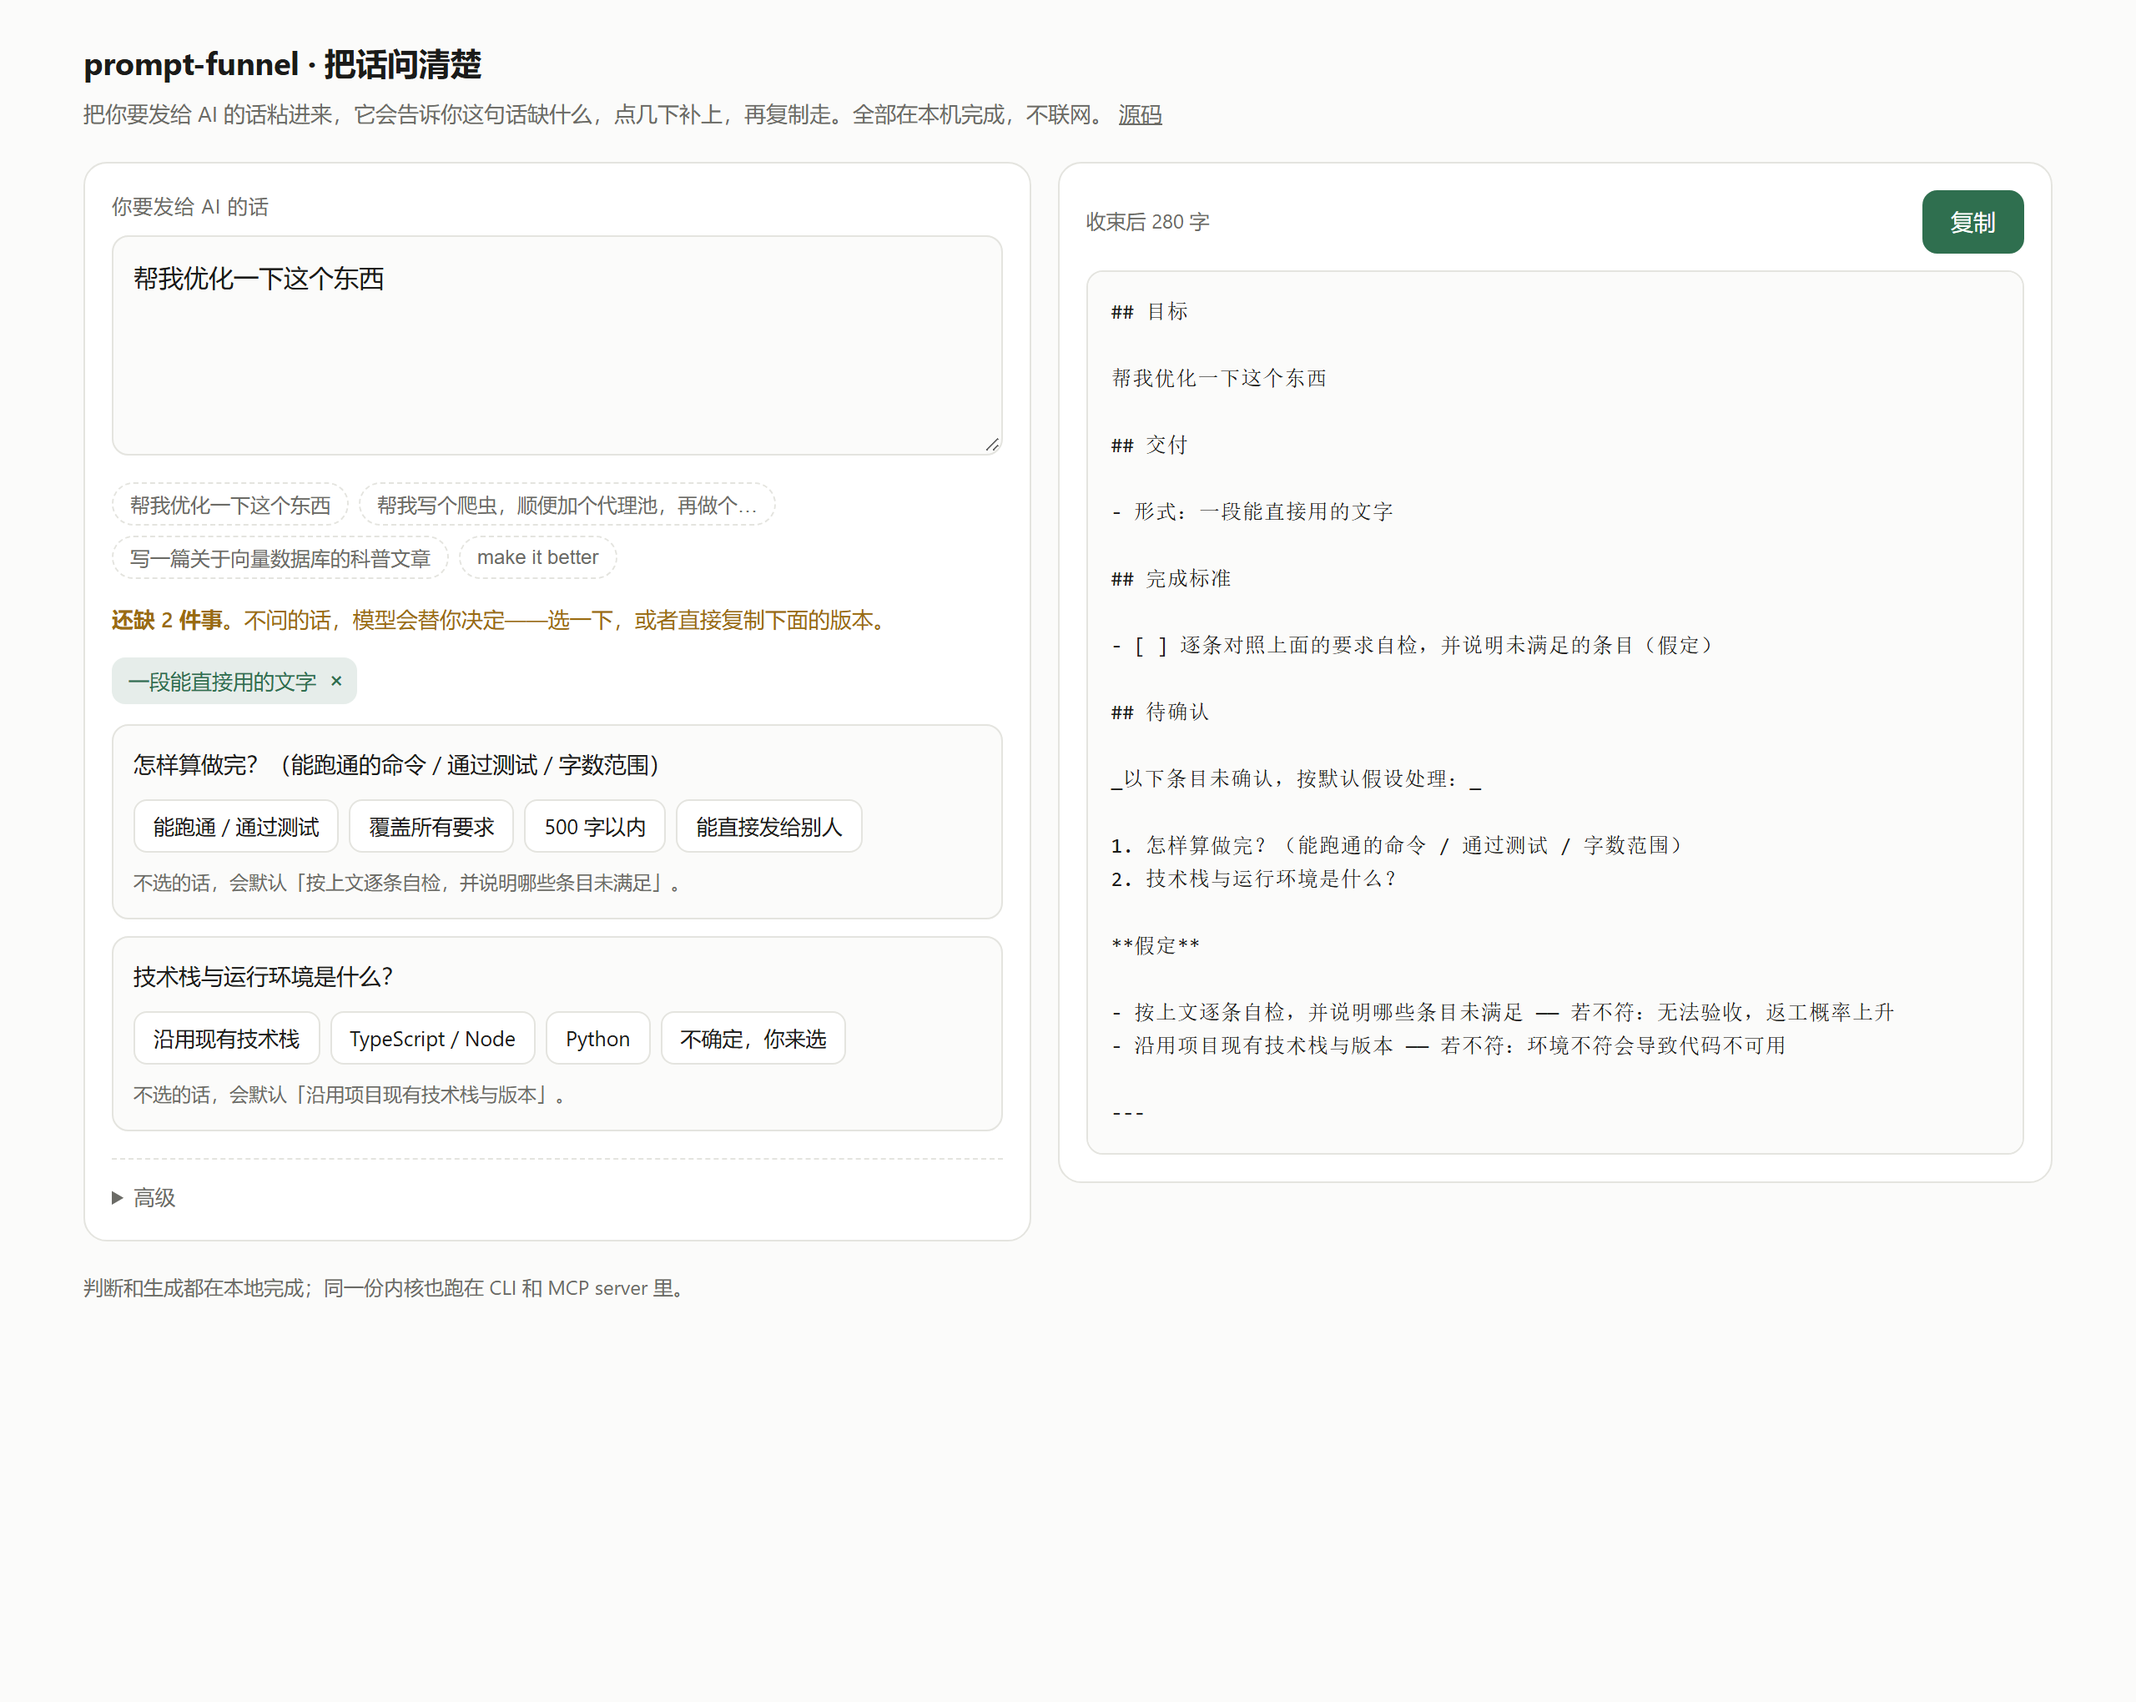
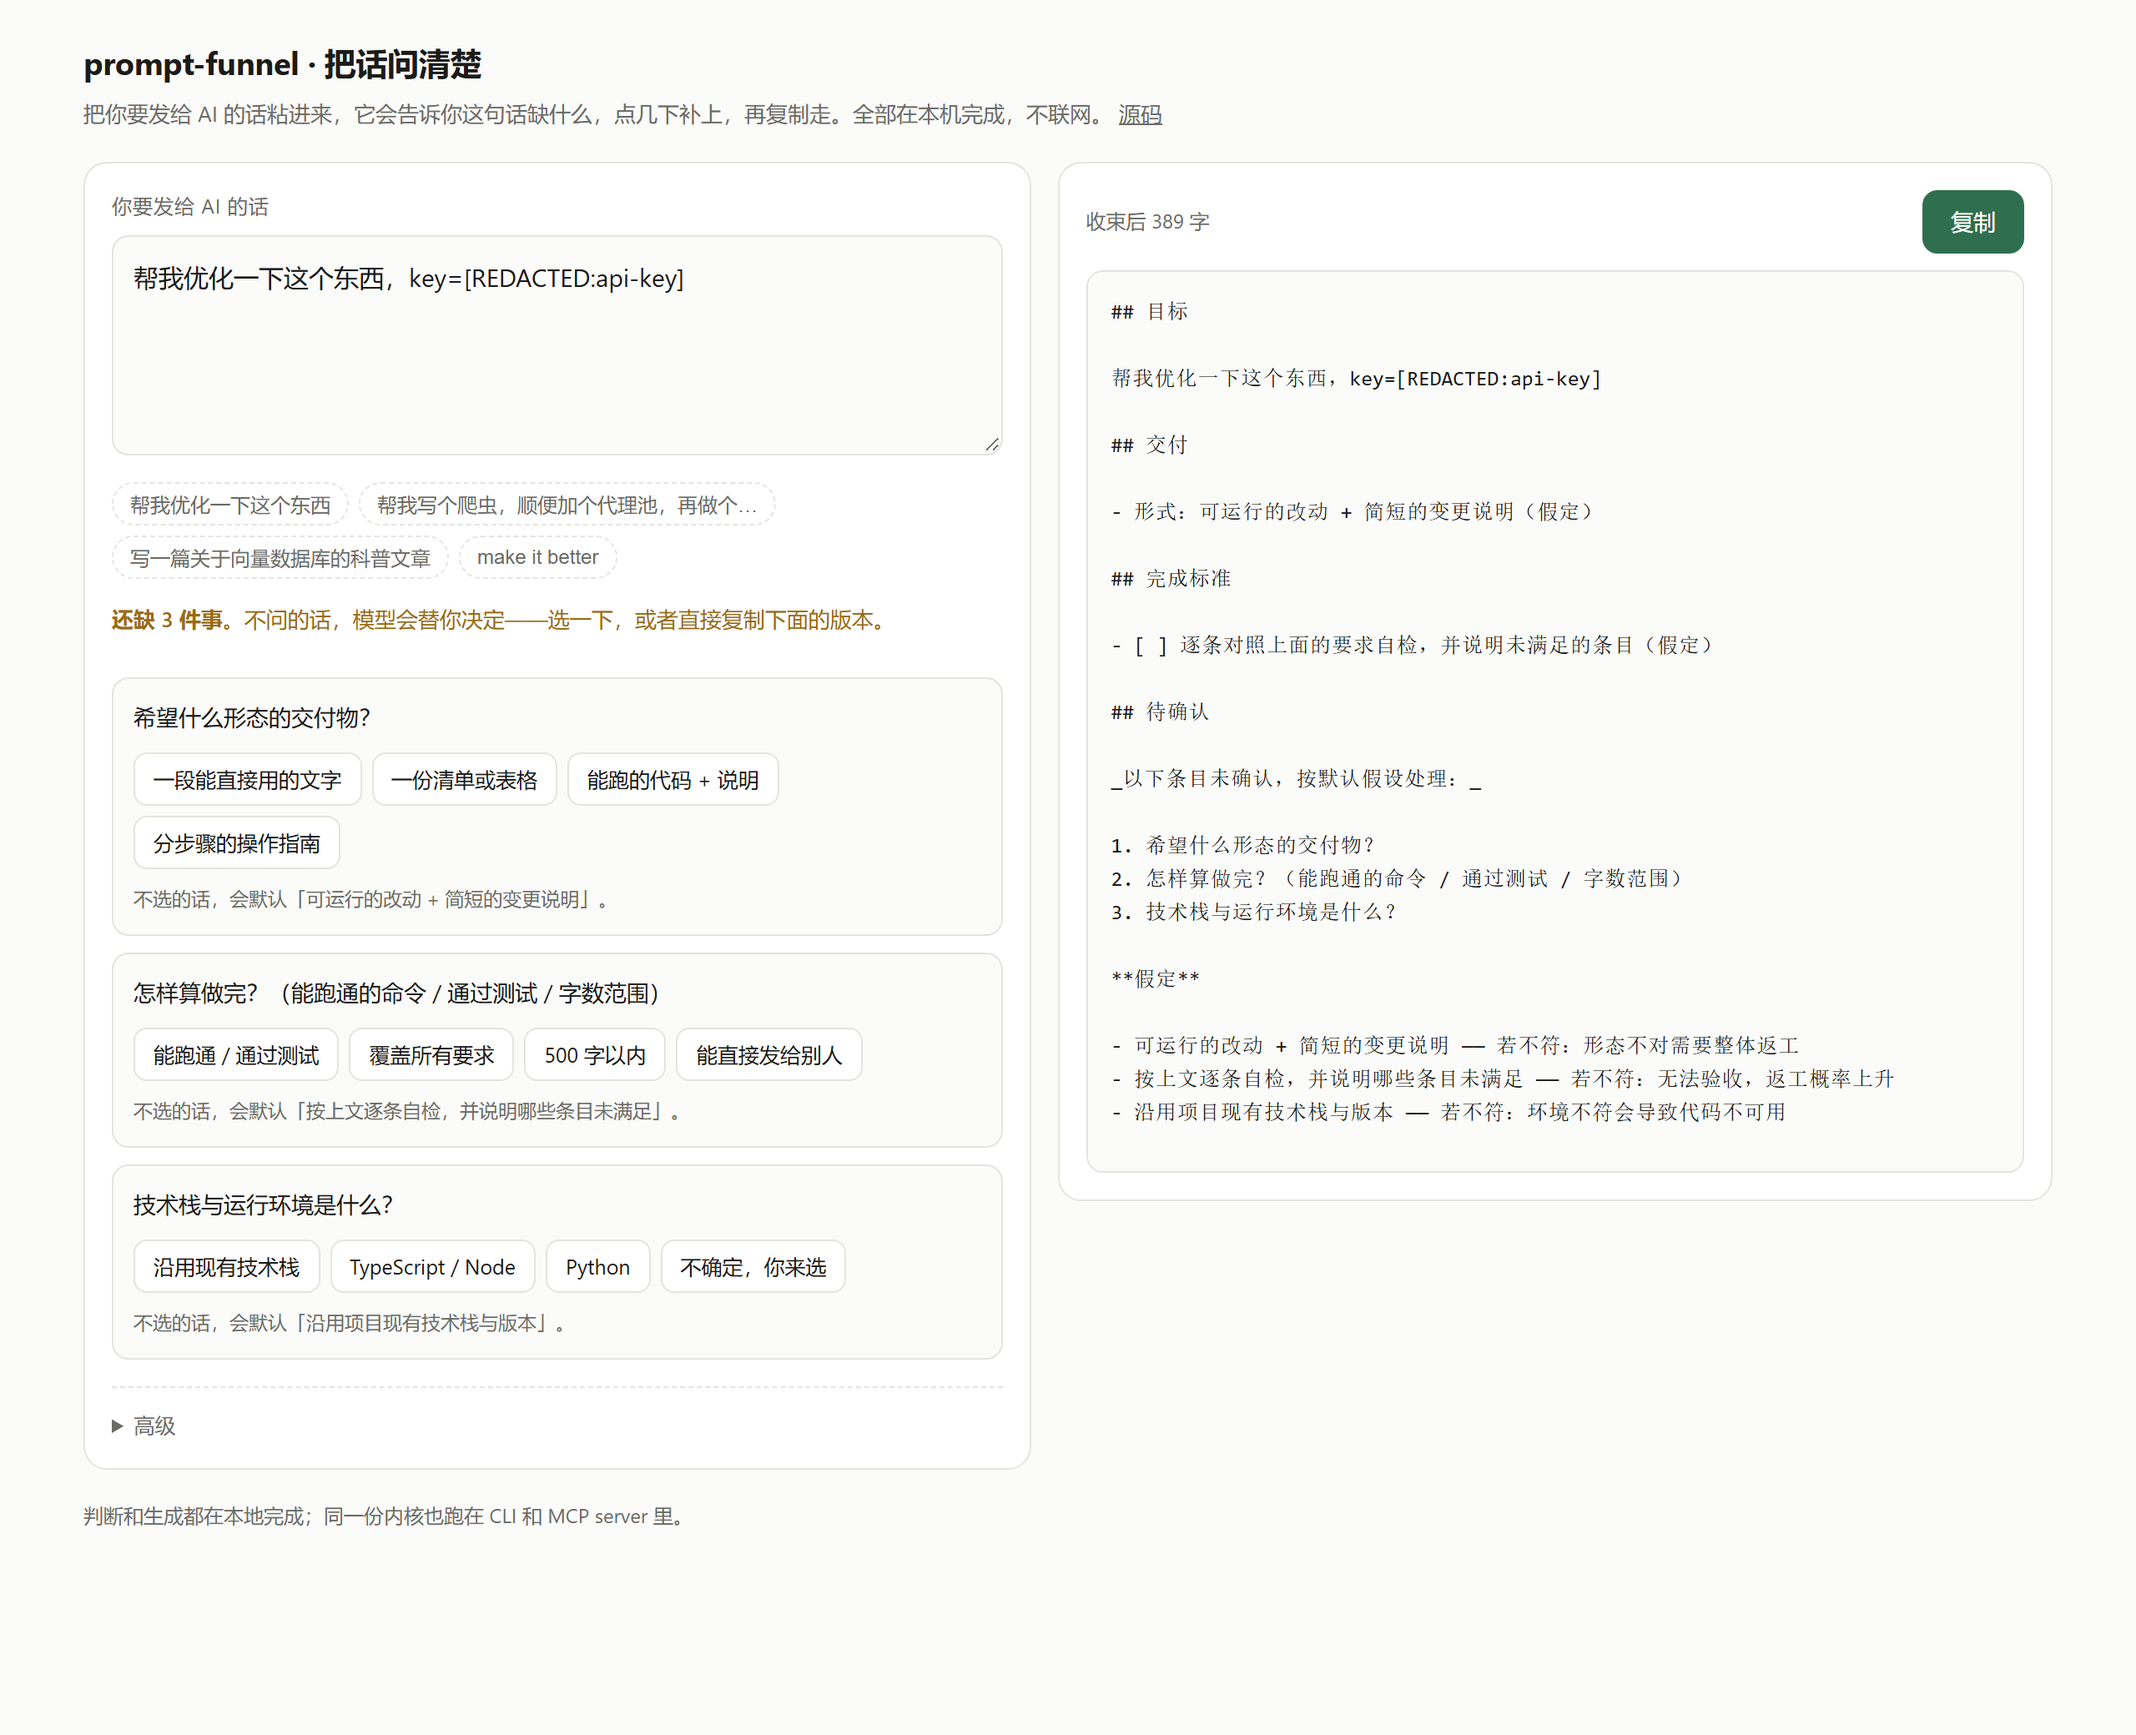
docs: sync README with the question flow, redaction and the extension
Also fixes the reason the site looked stale: the Pages workflow was manual-only
(a guard from when Pages had no source configured), so 0.4.0 was pushed but never
deployed. It now redeploys on every push to main.

diff --git a/README.en.md b/README.en.md
@@ -34,7 +34,9 @@ npx prompt-funnel gate   "make it better"     # verdict only, change nothing
 
 Zero runtime dependencies. No API key required. Works offline. Node ≥ 22.
 
-## Five ways in
+Nothing to install: **https://sanyin.github.io/prompt-funnel/** (redeployed on every push; hard-refresh with Ctrl+Shift+R if your browser shows an old build).
+
+## Six ways in
 
 | Entry point | For | How |
 | --- | --- | --- |
@@ -43,6 +45,7 @@ Zero runtime dependencies. No API key required. Works offline. Node ≥ 22.
 | **Hook** | automatic gating inside Claude Code | `funnel hook` ([setup](./adapters/claude-code/README.md)) |
 | **Skill** | teaching an agent when to use it | `node adapters/install.mjs codex` |
 | **Web** | try it without installing anything | `npm run playground` |
+| **Extension** | fill in the gap inside ChatGPT / Claude / DeepSeek | `npm run build:extension` ([setup](./extension/README.md)) |
 
 The MCP server only does deterministic work (gate / analyze / validate / render); **the semantic step is done by the host's own model**, so there is no second API key and no extra token spend. Six tools:
 
@@ -64,6 +67,16 @@ The MCP server only does deterministic work (gate / analyze / validate / render)
 | Marks guesses as assumptions, asks at most 3 questions | Make you fill in a form |
 | Checks every literal in the output against the source | Trade your exact words for "better phrasing" |
 | Carries agreed context into follow-ups | Guess what "continue" meant |
+
+## See what you are about to send
+
+The most common leak is not an attack, it is a paste: a log with `sk-...` still in it, a stack trace with `C:\Users\...`, an error message with a phone number.
+
+All four surfaces scan for API keys, tokens, private keys, passwords, emails, phone numbers, ID numbers, internal IPs and local paths. When something matches it reports **how many, what kind, how long** — it never prints the secret itself (terminal history is an attack surface too), and never edits your text on its own.
+
+You decide: a per-item "打码" button on the web and in the extension, `--redact` on the CLI, `--no-redact` to skip the scan.
+
+Patterns are deliberately narrow: ports, versions, dates, short commit hashes and order numbers are asserted as non-findings. Missing one is better than being the tool that cried wolf.
 
 ## Four design decisions
 
@@ -120,7 +133,9 @@ raw text ──▶ gate ──pass──▶ sent unchanged (byte-identical)
 ```
 src/
   gate.ts        six-axis clarity score with human-readable reasons
-  analyze.ts     extractive analysis: reorders and flags, never rewrites
+  analyze.ts     extractive analysis: reorders and flags, never rewrites; gaps carry options
+  questions.ts   gaps as clickable questions; answers fold into the right field
+  redact.ts      secret/PII scan: keys, phones, internal IPs, local paths
   refine.ts      single-section edits
   session.ts     follow-up continuation
   templates.ts   intent templates supplying the missing done-state
@@ -130,7 +145,8 @@ src/
   llm.ts         optional API engine (OpenAI-compatible)
   cli/           compile / review / refine / continue / gate / render / templates / config / hook
   mcp/           zero-dependency stdio MCP server, six tools
-playground/      one static page running the same core in the browser
+playground/      one static page: paste, answer, copy
+  extension/       Chromium MV3, imports dist/ directly, requests no permissions
 adapters/        skills and setup notes for Codex / DSH / Claude Code
 evals/           16-case offline suite + live A/B harness
 docs/            DESIGN / SPEC / USAGE / EVAL / AB-REPORT / EXAMPLE
@@ -144,6 +160,8 @@ docs/            DESIGN / SPEC / USAGE / EVAL / AB-REPORT / EXAMPLE
 - Continuation is concatenation plus summarisation, not real dialogue understanding; after several turns the "already agreed" block grows and needs trimming.
 - The Claude Code hook is provably invoked (a probe captured the real `UserPromptSubmit` payload), and `funnel hook` itself is unit-tested and answers in milliseconds; **whether the model adopts the injected structure is not measured** — that is up to the model.
 - The live A/B covers one model, 10 cases, 3 samples; the quality dimension still needs human blind rating.
+- **Secret detection is regex-based**: it catches common formats (sk-, ghp_, JWT, phone numbers, internal IPs) and nothing bespoke. It prefers missing a value to raising a false alarm — a user trained to dismiss warnings is worse off than one who missed a single leak.
+- **The extension was only verified against a local fixture page**, never against the live sites; its composer heuristic depends on page structure and may break when a site changes (the failure mode is an unresponsive button, not a broken page).
 
 ## Contributing
 

diff --git a/CHANGELOG.md b/CHANGELOG.md
@@ -8,6 +8,7 @@
   - 扩展直接 import `dist/` 里的内核，不是第二份实现；`npm run build:extension` 负责同步。
   - 不申请任何权限（`permissions: []`），不拦截发送。
 - 网页版加敏感信息面板：逐条「打码」，只改命中那一处。
+- GitHub Pages 改为 **push 自动部署**（此前手动触发，导致线上停在旧版本）；README 中英双语同步问答器、脱敏与扩展。
 - 测试 99 → 111。
 
 ## 0.3.0
